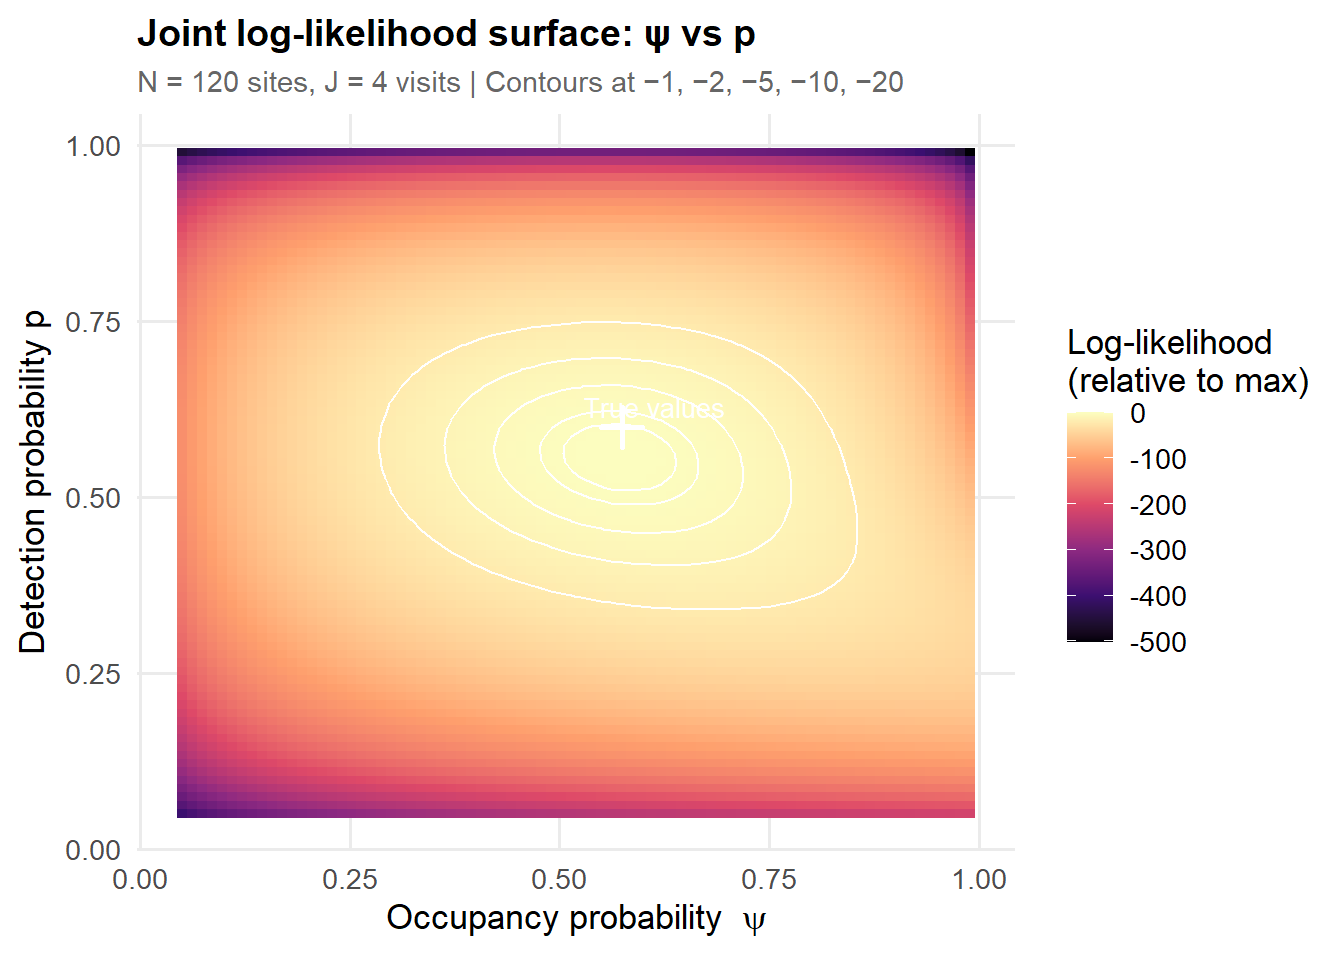
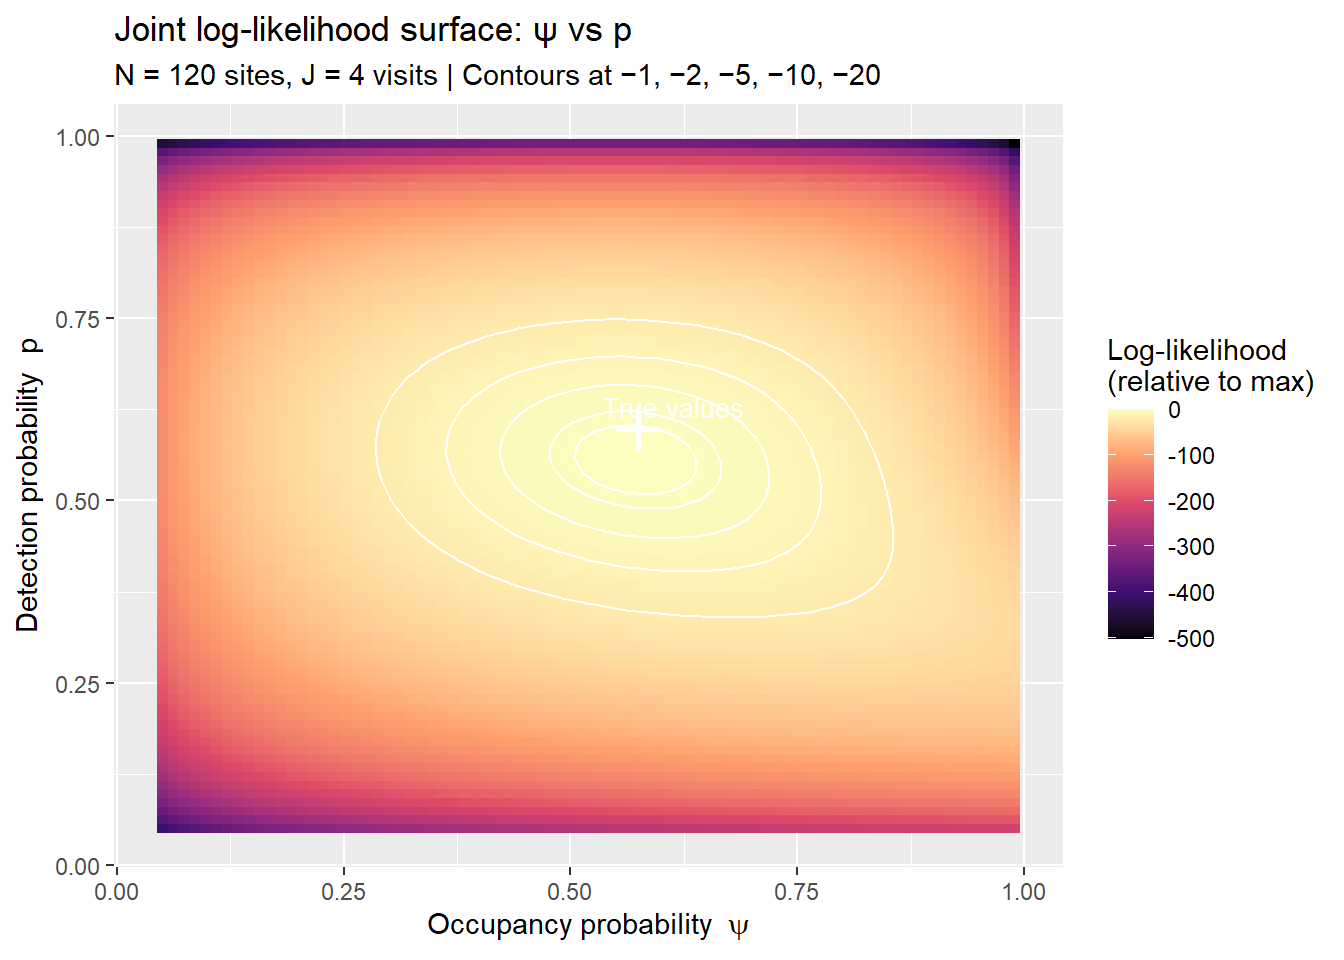
a few more fixes

diff --git a/_site/posts/2026-05-31-occupancy-modelling/index.html b/_site/posts/2026-05-31-occupancy-modelling/index.html
@@ -329,7 +329,7 @@ window.Quarto = {
 </section>
 <section id="detection-vs.-occupancy-untangling-two-processes" class="level2">
 <h2 class="anchored" data-anchor-id="detection-vs.-occupancy-untangling-two-processes">Detection vs.&nbsp;Occupancy: Untangling Two Processes</h2>
-<p>What we have stumbled into is a situation where the state we care about (is this unit occupied?) and the observation process (did we detect a resident?) are entangled — unless we design our study to separate them.</p>
+<p>What we have stumbled into is a situation where the state we care about (is this unit occupied?) and the observation process (did we detect a resident?) are entangled, unless we design our study to separate them.</p>
 <p>We can think of our data as arising from two distinct processes:</p>
 <p><strong>Process 1: Occupancy.</strong> Each housing unit <span class="math inline">\(i\)</span> is either occupied (<span class="math inline">\(z_i = 1\)</span>) or vacant (<span class="math inline">\(z_i = 0\)</span>). The subscript <span class="math inline">\(i\)</span> simply indexes which unit we are talking about — unit 1, unit 2, and so on up to our total of <span class="math inline">\(N\)</span> units. The probability that a given unit is occupied is <span class="math inline">\(\psi_i\)</span> (the Greek letter <em>psi</em>, pronounced “sigh”). This is what we want to estimate, and we expect it to vary by neighbourhood type.</p>
 <p><strong>Process 2: Detection.</strong> Given that a unit <em>is</em> occupied, what is the probability that a resident answers the door on a given visit? Call this <span class="math inline">\(p_{ij}\)</span>, where <span class="math inline">\(i\)</span> identifies the unit and <span class="math inline">\(j\)</span> identifies the visit, because detection probability can in principle vary both across sites and across occasions. It might depend on time of day, day of week, or other visit-level factors.</p>
@@ -355,12 +355,12 @@ window.Quarto = {
 <section id="level-1-the-occupancy-process" class="level3">
 <h3 class="anchored" data-anchor-id="level-1-the-occupancy-process">Level 1: The Occupancy Process</h3>
 <p>We visit unit <span class="math inline">\(i\)</span> on <span class="math inline">\(J\)</span> occasions and collect its <em>detection history</em> <span class="math inline">\(\mathbf{y}_i = (y_{i1}, \ldots, y_{iJ})\)</span>, where each <span class="math inline">\(y_{ij}\)</span> is 1 if someone answered on visit <span class="math inline">\(j\)</span> and 0 otherwise.</p>
-<p>The quantity we care about but <strong>never observe directly</strong> is the true occupancy state <span class="math inline">\(z_i\)</span>, the same binary state introduced earlier as the output of Process 1: is this unit occupied (1) or vacant (0)? We model it as a Bernoulli random variable — a single coin flip with a site-specific probability of landing heads:</p>
+<p>The quantity we care about but <strong>never observe directly</strong> is the true occupancy state <span class="math inline">\(z_i\)</span>, the same binary state introduced earlier as the output of Process 1: is this unit occupied (1) or vacant (0)? We model it as a Bernoulli random variable, a single coin flip with a site-specific probability of landing heads:</p>
 <p><span class="math display">\[
 z_i \sim \text{Bernoulli}(\psi_i)
 \]</span></p>
 <p>A Bernoulli distribution is the simplest possible probability model: it produces a 1 with probability <span class="math inline">\(\psi_i\)</span> and a 0 with probability <span class="math inline">\(1 - \psi_i\)</span>.</p>
-<p>We do not observe <span class="math inline">\(\psi_i\)</span> directly either, but we model it as a function of site-level covariates — things like noise level and distance to the nearest park:</p>
+<p>We do not observe <span class="math inline">\(\psi_i\)</span> directly either, but we model it as a function of site-level covariates, such as things like noise level and distance to the nearest park:</p>
 <p><span class="math display">\[
 \psi_i = \text{logit}^{-1}(\alpha_0 + \alpha_1 \cdot \text{noise}_i + \cdots)
 \]</span></p>
@@ -373,7 +373,7 @@ z_i \sim \text{Bernoulli}(\psi_i)
 <p><span class="math display">\[
 y_{ij} \mid z_i \sim \text{Bernoulli}(z_i \cdot p_{ij})
 \]</span></p>
-<p>The notation <span class="math inline">\(y_{ij} \mid z_i\)</span> is read “the observation at site <span class="math inline">\(i\)</span>, visit <span class="math inline">\(j\)</span>, <em>given</em> the occupancy state <span class="math inline">\(z_i\)</span>.” The vertical bar means we are conditioning on — taking as given — the true state of the unit.</p>
+<p>The notation <span class="math inline">\(y_{ij} \mid z_i\)</span> is read “the observation at site <span class="math inline">\(i\)</span>, visit <span class="math inline">\(j\)</span>, <em>given</em> the occupancy state <span class="math inline">\(z_i\)</span>.” The vertical bar means we are conditioning on (taking as given) the true state of the unit.</p>
 <p><span class="math inline">\(p_{ij}\)</span> is the <strong>detection probability</strong>: the chance that a resident answers the door on visit <span class="math inline">\(j\)</span> to unit <span class="math inline">\(i\)</span>, <em>given that the unit is occupied</em>. The double subscript is there because detection probability can in principle vary both across sites (some households are just harder to reach) and across visits (a Saturday afternoon visit is more likely to find someone home than a Tuesday morning one).</p>
 <p>The <span class="math inline">\(z_i \cdot p_{ij}\)</span> term enforces the constraint that a detection is only possible if the unit is occupied. If <span class="math inline">\(z_i = 0\)</span> (vacant), the product is zero and no detection can occur regardless of <span class="math inline">\(p_{ij}\)</span>. If <span class="math inline">\(z_i = 1\)</span> (occupied), the probability of a detection is simply <span class="math inline">\(p_{ij}\)</span>.</p>
 <p>The detection probability is modelled as a logistic function of visit-level covariates:</p>
@@ -391,8 +391,8 @@ p_{ij} = \text{logit}^{-1}(\beta_0 + \beta_1 \cdot \text{weekday}_{ij} + \beta_2
 <p><span class="math display">\[
 \mathcal{L}_i = \underbrace{\psi_i \prod_j p_{ij}^{y_{ij}}(1 - p_{ij})^{1 - y_{ij}}}_{\text{occupied and produced this history}} \;+\; \underbrace{(1 - \psi_i)\,\mathbf{1}\!\left[\sum_j y_{ij} = 0\right]}_{\text{vacant and produced all zeros}}
 \]</span></p>
-<p>Both terms are <strong>regular probabilities</strong> on the <span class="math inline">\([0, 1]\)</span> scale — not log-probabilities. We can add them directly because they represent two mutually exclusive scenarios: a unit cannot be both occupied and vacant at the same time. Adding the probabilities of mutually exclusive events gives the total probability of what we observed, which is exactly what a likelihood is.</p>
-<p>The indicator <span class="math inline">\(\mathbf{1}[\sum_j y_{ij} = 0]\)</span> is a simple on/off switch. It equals 1 when every visit to site <span class="math inline">\(i\)</span> recorded a zero — no detection across all <span class="math inline">\(J\)</span> visits — and equals 0 the moment any single <span class="math inline">\(y_{ij} = 1\)</span> occurs. In that second case the vacant term becomes <span class="math inline">\((1 - \psi_i) \times 0 = 0\)</span> and vanishes from the sum entirely, because a vacant unit producing a detection is a logical impossibility. To put it plainly:</p>
+<p>Both terms are <strong>regular probabilities</strong> on the <span class="math inline">\([0, 1]\)</span> scale, not log-probabilities. We can add them directly because they represent two mutually exclusive scenarios: a unit cannot be both occupied and vacant at the same time. Adding the probabilities of mutually exclusive events gives the total probability of what we observed, which is exactly what a likelihood is.</p>
+<p>The indicator <span class="math inline">\(\mathbf{1}[\sum_j y_{ij} = 0]\)</span> is a simple on/off switch. It equals 1 when every visit to site <span class="math inline">\(i\)</span> recorded a zero (no detection across all <span class="math inline">\(J\)</span> visits) and equals 0 the moment any single <span class="math inline">\(y_{ij} = 1\)</span> occurs. In that second case the vacant term becomes <span class="math inline">\((1 - \psi_i) \times 0 = 0\)</span> and vanishes from the sum entirely, because a vacant unit producing a detection is a logical impossibility. To put it plainly:</p>
 <ul>
 <li><strong>Any detection occurred</strong> (<span class="math inline">\(\sum_j y_{ij} &gt; 0\)</span>): switch = 0, vacant term = 0, only the occupied term contributes.</li>
 <li><strong>All visits were zero</strong> (<span class="math inline">\(\sum_j y_{ij} = 0\)</span>): switch = 1, vacant term = <span class="math inline">\((1 - \psi_i)\)</span>, both terms contribute.</li>
@@ -444,7 +444,7 @@ p_{ij} = \text{logit}^{-1}(\beta_0 + \beta_1 \cdot \text{weekday}_{ij} + \beta_2
 <p>The occupancy model is hierarchical in a <strong>different sense</strong>: the hierarchy is <em>across conceptually distinct processes stacked on top of one another</em>. The latent occupancy state <span class="math inline">\(z_i\)</span> lives at one level; the observed detection data <span class="math inline">\(y_{ij}\)</span> live at a second level, conditional on <span class="math inline">\(z_i\)</span>. The two levels represent different parts of reality (the world, and your measurement of it), not different strata within the same grouping structure.</p>
 <p>Using the terminology from <span class="citation" data-cites="royle2008">Royle and Dorazio (<a href="#ref-royle2008" role="doc-biblioref">2008</a>)</span>, this is a <strong>state-space model</strong>: the system has a hidden state (occupancy) and a noisy observation process (detection). The <span class="math inline">\(z_i\)</span> values are not random effects in the mixed-model sense. They are unknown binary facts about the world: unit <span class="math inline">\(i\)</span> is either occupied or it is not, and we are trying to learn that from the data.</p>
 <p>A useful distinction: in a mixed model, you typically care only about the <em>variance</em> of the random effect distribution, not the individual group estimates themselves. In an occupancy model, you often care a great deal about the individual <span class="math inline">\(z_i\)</span> values. Which units are occupied? Where is occupancy clustered? The latent states are themselves targets of inference, not nuisance parameters to be integrated away.</p>
-<p>The two approaches are not mutually exclusive. You can embed an occupancy model inside a multilevel structure — for example, if sites are nested within neighbourhoods and you want neighbourhood-level random effects on <span class="math inline">\(\psi\)</span>. In that case both kinds of hierarchy operate simultaneously.</p>
+<p>The two approaches are not mutually exclusive. You can embed an occupancy model inside a multilevel structure (for example, if sites are nested within neighbourhoods and you want neighbourhood-level random effects on <span class="math inline">\(\psi\)</span>), in which case both kinds of hierarchy operate simultaneously.</p>
 </section>
 <section id="identifiability-can-the-data-tell-psi-and-p-apart" class="level2">
 <h2 class="anchored" data-anchor-id="identifiability-can-the-data-tell-psi-and-p-apart">Identifiability: Can the Data Tell <span class="math inline">\(\psi\)</span> and <span class="math inline">\(p\)</span> Apart?</h2>
@@ -574,7 +574,7 @@ p_{ij} = \text{logit}^{-1}(\beta_0 + \beta_1 \cdot \text{weekday}_{ij} + \beta_2
 <h3 class="anchored" data-anchor-id="identifiability-in-practice">Identifiability in Practice</h3>
 <p>Before fitting the model, it is worth returning to the identifiability question raised earlier. Now that we have data, we can compute the joint log-likelihood surface over all combinations of <span class="math inline">\(\psi\)</span> and <span class="math inline">\(p\)</span> and see concretely how well the two parameters are separated.</p>
 <p>Each cell in the heatmap below asks: <em>if the true occupancy probability were <span class="math inline">\(\psi\)</span> and the true detection probability were <span class="math inline">\(p\)</span>, how well would that combination explain our 120-site dataset?</em> The brightest region is the best-fitting combination; colours fall away as we move to less plausible combinations. The white cross marks the true values used to generate the data.</p>
-<p>The contour lines are drawn at −1, −2, −5, −10, and −20 on the relative log-likelihood scale. A value of −2 means the likelihood at that point is <span class="math inline">\(e^{-2} \approx 0.14\)</span> times the likelihood at the peak — the data are about seven times less probable under that parameter combination than under the best one. The −2 contour is a useful rough boundary: anything inside it is well-supported by the data, anything outside it is not.</p>
+<p>The contour lines are drawn at −1, −2, −5, −10, and −20 on the relative log-likelihood scale. A value of −2 means the likelihood at that point is <span class="math inline">\(e^{-2} \approx 0.14\)</span> times the likelihood at the peak, meaning the data are about seven times less probable under that parameter combination than under the best one. The −2 contour is a useful rough boundary: anything inside it is well-supported by the data, anything outside it is not.</p>
 <div class="cell">
 <details class="code-fold">
 <summary>Show code</summary>
@@ -630,14 +630,14 @@ p_{ij} = \text{logit}^{-1}(\beta_0 + \beta_1 \cdot \text{weekday}_{ij} + \beta_2
 <img src="index_files/figure-html/fig-identifiability-1.png" class="img-fluid figure-img" width="672">
 </div>
 <figcaption class="quarto-float-caption-bottom quarto-float-caption quarto-float-fig" id="fig-identifiability-caption-0ceaefa1-69ba-4598-a22c-09a6ac19f8ca">
-Figure&nbsp;1: Joint log-likelihood surface for ψ and p computed from the simulation dataset (N = 120 sites, J = 4 visits). Each cell shows how well that combination of ψ and p explains the observed detection histories, relative to the best-fitting combination (set to zero). The white cross marks the true values used to simulate the data. The well-defined peak confirms that ψ and p are separately identifiable — there is one clear best answer, not a ridge of equally plausible combinations.
+Figure&nbsp;1: Joint log-likelihood surface for ψ and p computed from the simulation dataset (N = 120 sites, J = 4 visits). Each cell shows how well that combination of ψ and p explains the observed detection histories, relative to the best-fitting combination (set to zero). The white cross marks the true values used to simulate the data. The well-defined peak confirms that ψ and p are separately identifiable: there is one clear best answer, not a ridge of equally plausible combinations.
 </figcaption>
 </figure>
 </div>
 </div>
 </div>
 <p>If you have ever read a topographic map, the contour lines here work exactly the same way. On a topo map, each line connects all points at the same elevation; a tight cluster of rings indicates a sharp summit, while widely spaced lines indicate a gentle slope. Here, each white contour line connects all combinations of <span class="math inline">\(\psi\)</span> and <span class="math inline">\(p\)</span> that fit the data equally well at that likelihood level, and the colour fills in the full surface between them. The bright spot at the centre is the summit: the single combination that best explains the data. The contour rings around it show how steeply the fit deteriorates as you move away.</p>
-<p>The peak is tight and well-centred near the true values. This matters because a sharp peak means there is essentially one combination of <span class="math inline">\(\psi\)</span> and <span class="math inline">\(p\)</span> that explains the data well — moving away from it in any direction, including sliding along the <span class="math inline">\(\psi\)</span> axis alone or the <span class="math inline">\(p\)</span> axis alone, makes the fit noticeably worse. The data are pinning down both parameters separately.</p>
+<p>The peak is tight and well-centred near the true values. This matters because a sharp peak means there is essentially one combination of <span class="math inline">\(\psi\)</span> and <span class="math inline">\(p\)</span> that explains the data well. Moving away from it in any direction, including sliding along the <span class="math inline">\(\psi\)</span> axis alone or the <span class="math inline">\(p\)</span> axis alone, makes the fit noticeably worse. The data are pinning down both parameters separately.</p>
 <p>A diagonal ridge running from the bottom-right to the top-left would be the danger sign: it would mean that low <span class="math inline">\(\psi\)</span> paired with high <span class="math inline">\(p\)</span> fits about as well as high <span class="math inline">\(\psi\)</span> paired with low <span class="math inline">\(p\)</span>, and the data cannot tell the two stories apart, like a mountain range with no clear summit, just an endless spine. The tight, roughly circular peak here confirms that our four visits per site are sufficient to identify both parameters separately.</p>
 </section>
 <section id="the-stan-model" class="level3">
@@ -654,7 +654,7 @@ Figure&nbsp;1: Joint log-likelihood surface for ψ and p computed from the simul
 <p><strong>On the priors.</strong> The priors are <code>normal(0, 1.5)</code> for <span class="math inline">\(\alpha_0\)</span> and <span class="math inline">\(\beta_0\)</span>, and <code>normal(0, 1.0)</code> for <span class="math inline">\(\alpha_1\)</span>. To understand what these mean, it helps to convert a few values back to the probability scale.</p>
 <p>For the intercepts, a normal(0, 1.5) prior on the logit scale covers a wide range: logit<span class="math inline">\(^{-1}(-3) \approx 5\%\)</span> and logit<span class="math inline">\(^{-1}(3) \approx 95\%\)</span>, so values three standard deviations from zero, which this prior considers quite unlikely, correspond to occupancy near the floor or ceiling. This is honest about our prior uncertainty: we genuinely do not know whether baseline occupancy is 30% or 80% before seeing the data, and this prior reflects that without being completely uninformative.</p>
 <p>For the noise slope <span class="math inline">\(\alpha_1\)</span>, it helps to think about what different slope values imply in practice. Because the covariate is standardised, <span class="math inline">\(\alpha_1\)</span> tells us how occupancy changes when noise increases by one standard deviation. We fix the intercept at <span class="math inline">\(\alpha_0 = 0.40\)</span> (60% occupancy at average noise) and vary only the slope.</p>
-<p>The figure below shows five curves, one per slope value. They all pass through the same point at noise = 0 — 60% occupancy — because the intercept is identical. What differs is how steeply occupancy falls as noise increases to the right, and how steeply it rises as noise decreases to the left.</p>
+<p>The figure below shows five curves, one per slope value. They all pass through the same point at noise = 0 — 60% occupancy, because the intercept is identical. What differs is how steeply occupancy falls as noise increases to the right, and how steeply it rises as noise decreases to the left.</p>
 <div class="cell">
 <details class="code-fold">
 <summary>Show code</summary>
@@ -765,7 +765,7 @@ Figure&nbsp;2: Occupancy probability as a function of standardised noise level u
 </tbody>
 </table>
 <p>A slope of −4.0 would mean that moving one standard deviation noisier nearly empties a neighbourhood entirely. That is a claim requiring extraordinary evidence. The normal(0, 1.0) prior assigns this value vanishingly small probability, as it sits four standard deviations from zero, while leaving slopes in the −0.5 to −2.5 range, which correspond to meaningful but not extreme effects, well within the prior’s support. The data can push the estimate wherever the evidence points; the prior simply prevents the sampler from seriously entertaining scenarios where noise alone drives occupancy to near zero.</p>
-<p>The Stan code below implements the two-level model exactly as described. If you are not familiar with Stan, the three blocks map directly onto the model structure: <code>data</code> declares what we pass in, <code>parameters</code> names the three unknowns the sampler will estimate, <code>model</code> contains the priors and the marginalised likelihood loop, and <code>generated quantities</code> computes derived quantities — site-level <span class="math inline">\(\psi_i\)</span>, detection probability <span class="math inline">\(p\)</span>, and the posterior probability that each all-zero site is genuinely occupied.</p>
+<p>The Stan code below implements the two-level model exactly as described. If you are not familiar with Stan, the three blocks map directly onto the model structure: <code>data</code> declares what we pass in, <code>parameters</code> names the three unknowns the sampler will estimate, <code>model</code> contains the priors and the marginalised likelihood loop, and <code>generated quantities</code> computes derived quantities: site-level <span class="math inline">\(\psi_i\)</span>, detection probability <span class="math inline">\(p\)</span>, and the posterior probability that each all-zero site is genuinely occupied.</p>
 <div class="cell">
 <details class="code-fold">
 <summary>Stan code: two-level occupancy model</summary>
@@ -865,14 +865,14 @@ Figure&nbsp;2: Occupancy probability as a function of standardised noise level u
 </div>
 </div>
 </div>
-<p>The table above shows the posterior summary for each parameter. The <code>mean</code> column is the posterior mean — our best single-number estimate. The <code>q5</code> and <code>q95</code> columns are the 5th and 95th percentiles, forming a 90% credible interval. <code>rhat</code> is a convergence diagnostic: values close to 1.00 indicate the four independent sampling chains reached the same answer, which is what we want to see.</p>
+<p>The table above shows the posterior summary for each parameter. The <code>mean</code> column is the posterior mean, our best single-number estimate. The <code>q5</code> and <code>q95</code> columns are the 5th and 95th percentiles, forming a 90% credible interval. <code>rhat</code> is a convergence diagnostic: values close to 1.00 indicate the four independent sampling chains reached the same answer, which is what we want to see.</p>
 </section>
 <section id="parameter-recovery" class="level3">
 <h3 class="anchored" data-anchor-id="parameter-recovery">Parameter Recovery</h3>
 <p>The first check after any Bayesian fit is whether the model recovers the true parameters. But before looking at the figure, it is worth being clear about what these parameters actually represent, because the model works on the <em>logit scale</em> and the numbers will look unfamiliar at first.</p>
 <p>Recall that occupancy probability is modelled as:</p>
 <p><span class="math display">\[\psi_i = \text{logit}^{-1}(\alpha_0 + \alpha_1 \cdot \text{noise}_i)\]</span></p>
-<p>The logit scale is a transformed scale where 0 corresponds to a probability of 0.50, positive values correspond to probabilities above 0.50, and negative values correspond to probabilities below 0.50. To convert back to a probability, you apply the logistic function: <span class="math inline">\(\text{logit}^{-1}(x) = e^x / (1 + e^x)\)</span>.</p>
+<p>The logit scale is a transformed scale where 0 corresponds to a probability of 0.50, positive values correspond to probabilities above 0.50, and negative values correspond to probabilities below 0.50. To convert back to a probability, you apply the logistic function: <span class="math display">\[\text{logit}^{-1}(x) = e^x / (1 + e^x)\]</span></p>
 <p><span class="math inline">\(\alpha_0\)</span> and <span class="math inline">\(\beta_0\)</span> are intercepts on this scale and need to be converted to be interpreted as probabilities. <span class="math inline">\(\alpha_1\)</span> is a slope and works differently: it describes a constant change in log-odds per one-unit increase in standardised noise. Because the logistic function produces a sigmoidal curve, this does not translate to a fixed change in probability. The change in probability per unit of noise depends on where you are on the curve, being largest near 50% occupancy and smallest near the extremes.</p>
 <p>So what do the true values, the parameters we used to simulate the data, mean in plain terms?</p>
 <ul>

diff --git a/_site/posts.html b/_site/posts.html
@@ -228,7 +228,7 @@ window.Quarto = {
 
 <div class="quarto-listing quarto-listing-container-grid" id="listing-listing">
 <div class="list grid quarto-listing-cols-3">
-<div class="g-col-1" data-index="0" data-categories="YmF5ZXNpYW4lMkNvY2N1cGFuY3klMkNpbmZlcmVuY2U=" data-listing-date-sort="1780207200000" data-listing-file-modified-sort="1780246825291" data-listing-date-modified-sort="NaN" data-listing-reading-time-sort="42" data-listing-word-count-sort="8399">
+<div class="g-col-1" data-index="0" data-categories="YmF5ZXNpYW4lMkNvY2N1cGFuY3klMkNpbmZlcmVuY2U=" data-listing-date-sort="1780207200000" data-listing-file-modified-sort="1780248593133" data-listing-date-modified-sort="NaN" data-listing-reading-time-sort="42" data-listing-word-count-sort="8387">
 <a href="./posts/2026-05-31-occupancy-modelling/index.html" class="quarto-grid-link">
 <div class="quarto-grid-item card h-100 card-left">
 <p class="card-img-top">